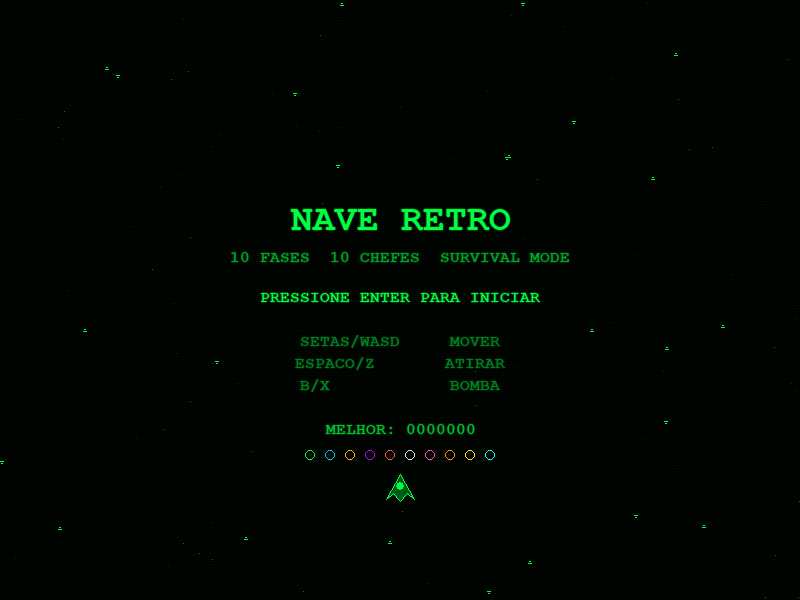
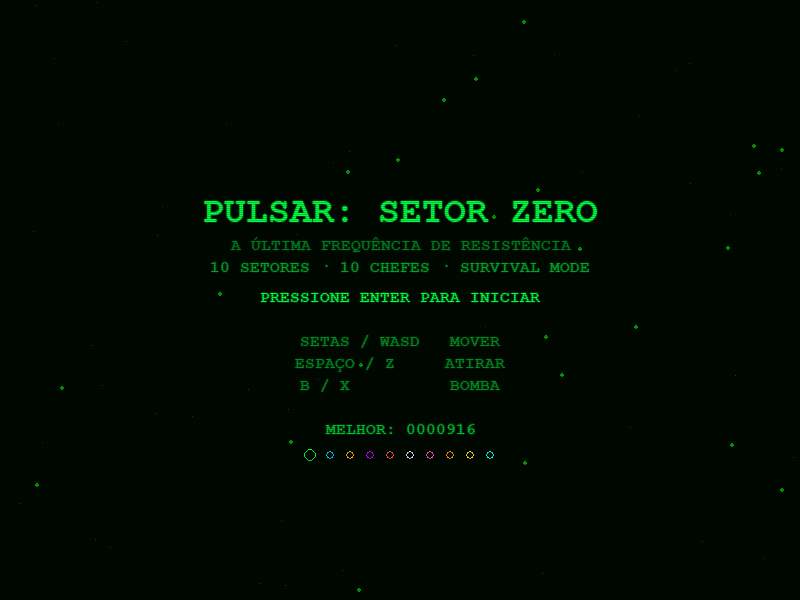
Atualiza screenshot para o menu atual (PULSAR: SETOR ZERO)

diff --git a/_screenshot.py b/_screenshot.py
@@ -1,0 +1,27 @@
+# -*- coding: utf-8 -*-
+"""Captura a tela inicial do jogo e salva como screenshot.png"""
+import os, sys
+os.environ["SDL_AUDIODRIVER"] = "dummy"
+
+import pygame
+pygame.init()
+pygame.mixer.init()
+
+_fake_cls = type('S', (), {'play': lambda *a,**k: None, 'stop': lambda *a: None})
+pygame.mixer.Sound = lambda **k: _fake_cls()
+
+sys.path.insert(0, os.path.dirname(os.path.abspath(__file__)))
+import jogo
+
+g = jogo.Game.__new__(jogo.Game)
+g.highscore = jogo.load_hs()
+g.sfx = {}
+g.music = None
+g.state = jogo.Game.MENU
+g._init_game()
+
+g._draw()
+
+pygame.image.save(jogo.screen, "screenshot.png")
+print("screenshot.png salvo!")
+pygame.quit()
